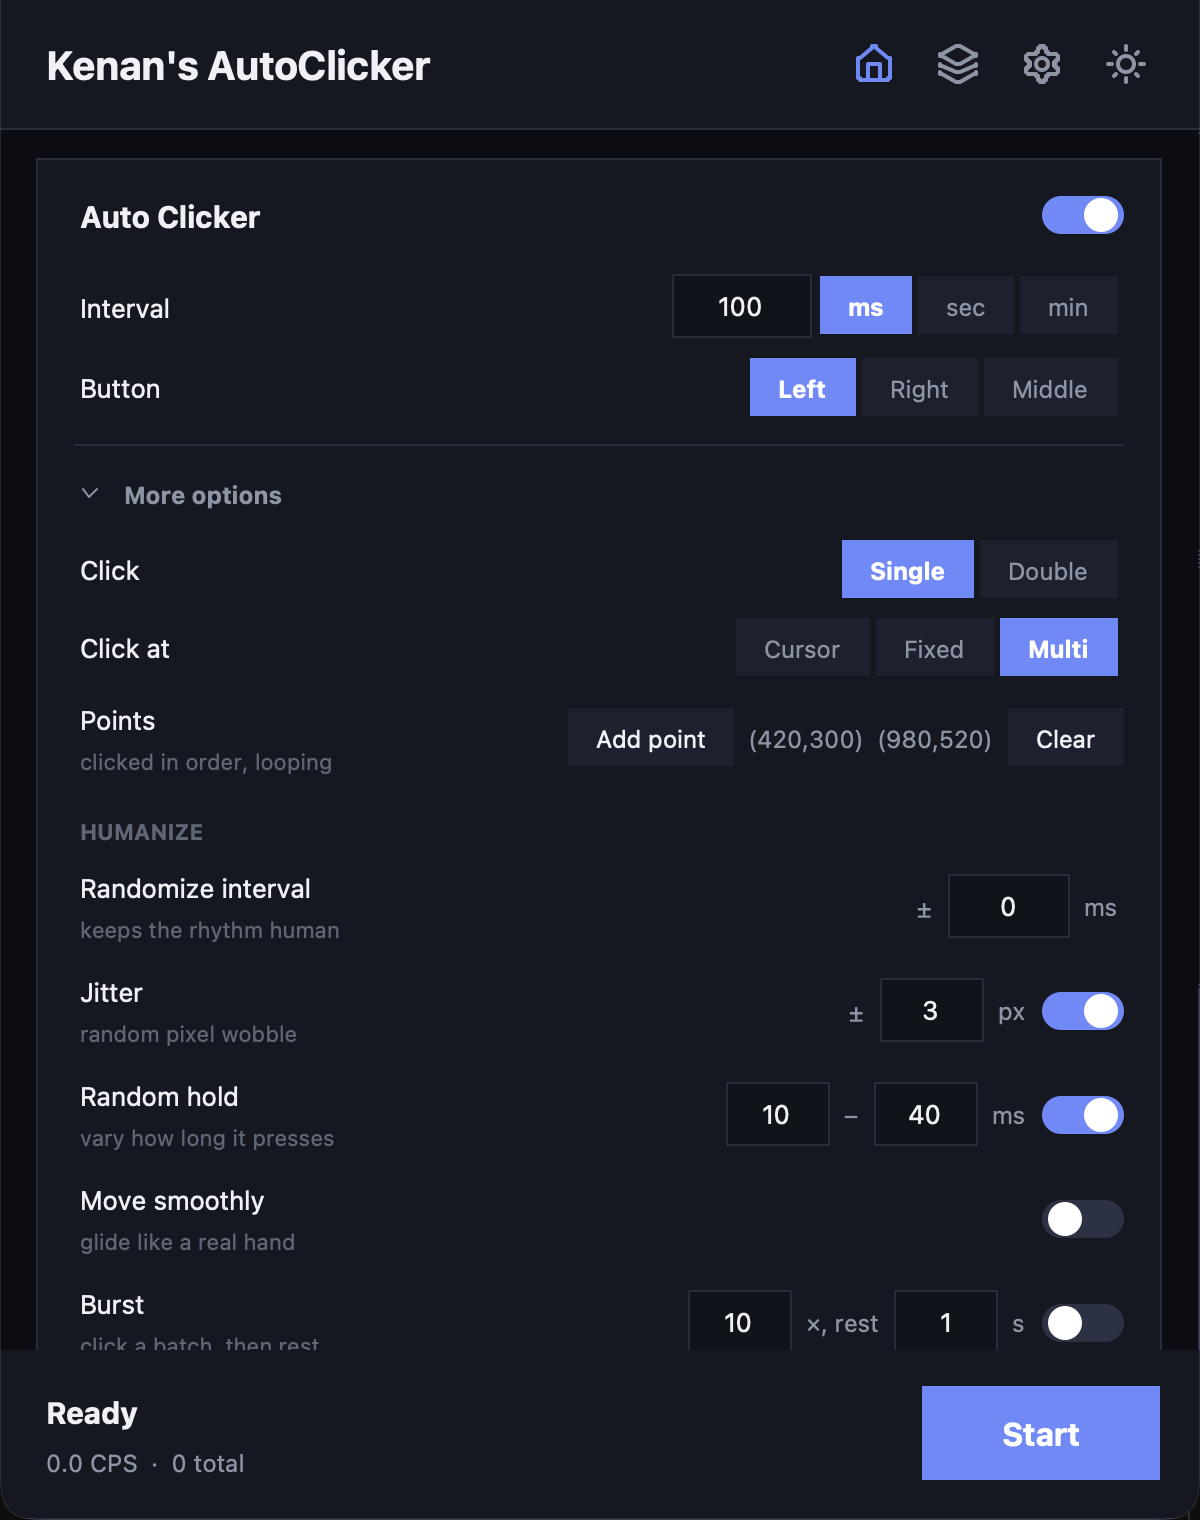
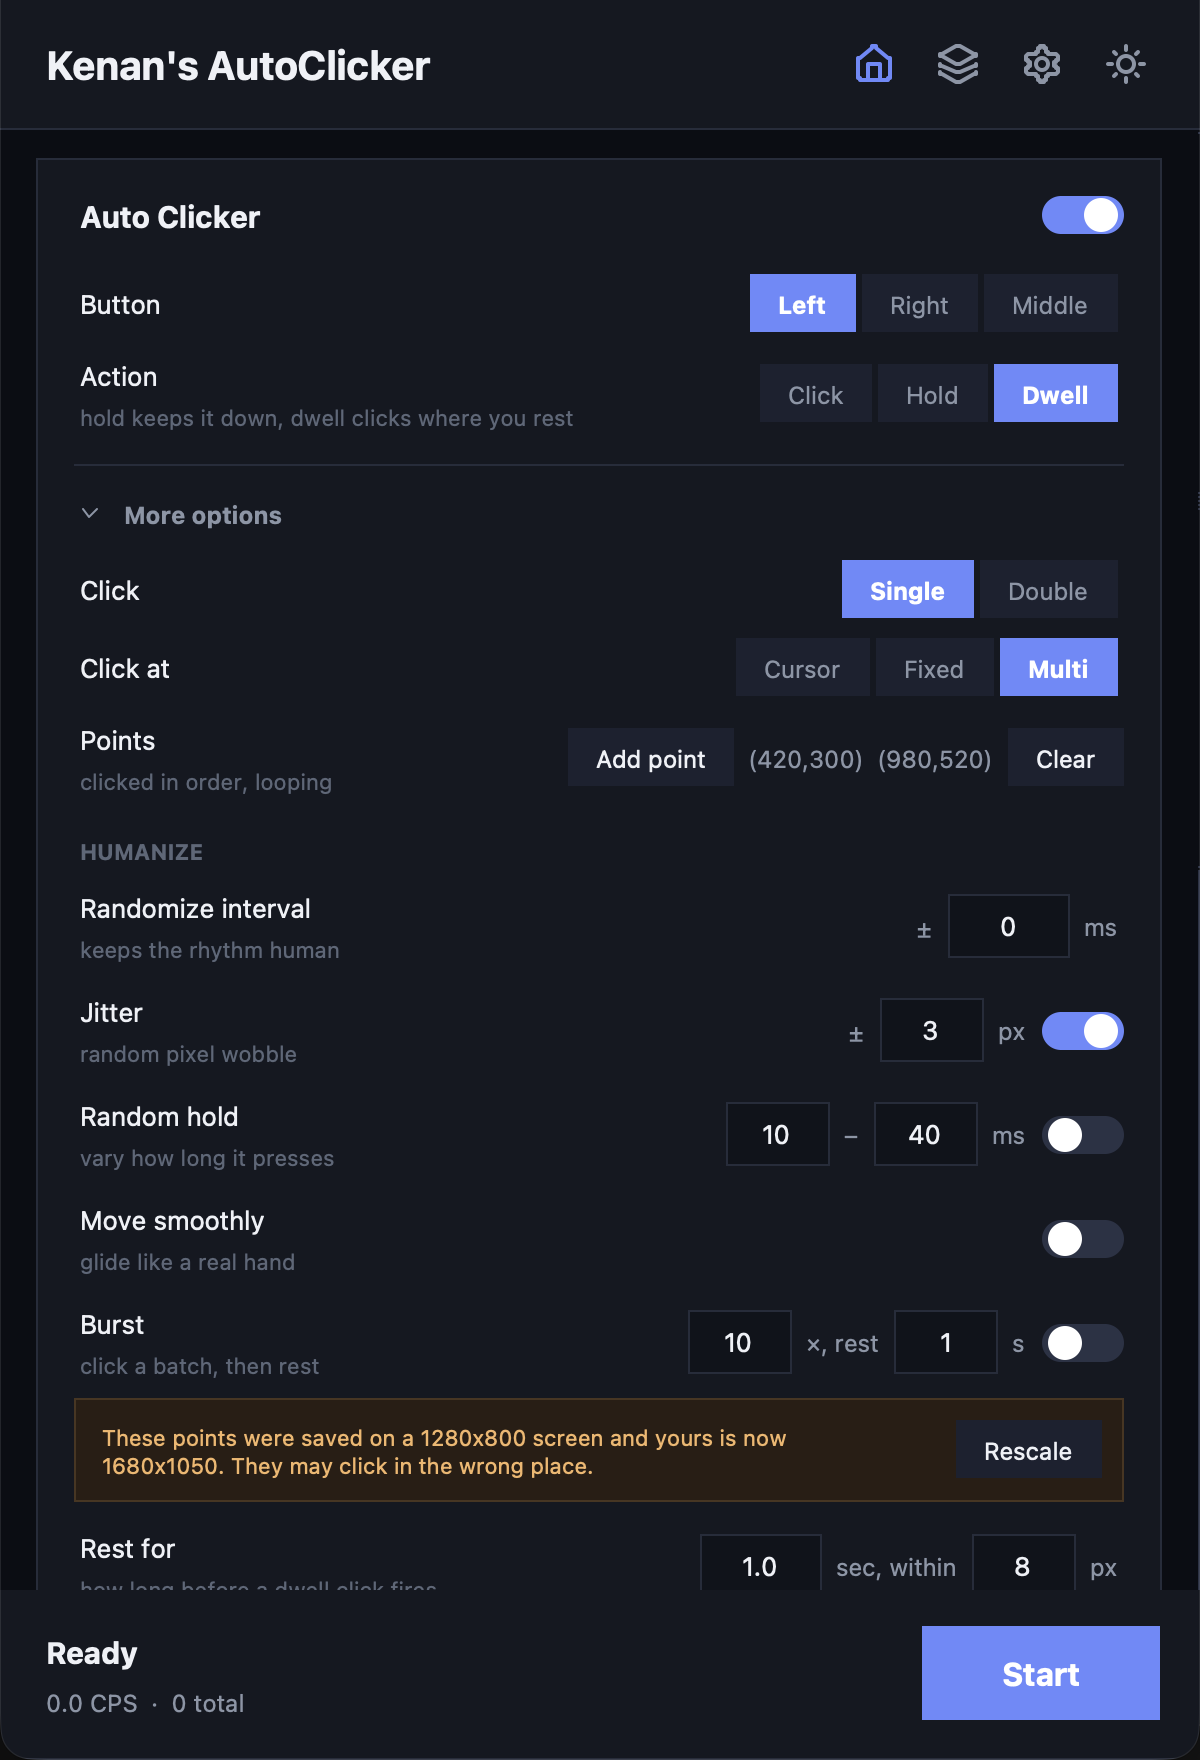
Refresh docs for v2.1, add issue templates, fix warning and dwell row placement

diff --git a/kenansautoclicker/ui_home.py b/kenansautoclicker/ui_home.py
@@ -36,6 +36,7 @@ class HomePage:
         self._seg(ctrl, self.vars["mouse_button"], ["Left", "Right", "Middle"]).pack(side="right")
 
         ctrl = self._row(c, "Action", "hold keeps it down, dwell clicks where you rest")
+        self.click_action_row = ctrl.row
         self._seg(ctrl, self.vars["click_action"], ["Click", "Hold", "Dwell"],
                   command=self._refresh_action_ui).pack(side="right")
 
@@ -197,9 +198,10 @@ class HomePage:
         self._right_stack(ctrl, [self.macro_lbl, self.macro_rec_btn])
 
         self.macro_hint = tk.Label(mc, font=(UI_FONT, 8), anchor="w", justify="left",
-                                   text="Recording starts after a countdown and stops "
-                                        "on the record hotkey, so the click that starts "
-                                        "it is not part of the macro.")
+                                   wraplength=520,
+                                   text="Recording starts after a countdown and stops on "
+                                        "the start/stop hotkey, so the click that begins "
+                                        "it never ends up inside the macro.")
         self.macro_hint.pack(anchor="w"); self._reg(self.macro_hint, "faint")
 
         ctrl = self._row(mc, "Repeat", "0 means until you stop it")
@@ -235,12 +237,17 @@ class HomePage:
         warning = self._point_warning()
         self.point_warn.pack_forget()
         self.point_fix_btn.pack_forget()
-        if warning and self.vars["target_mode"].get() in ("Fixed", "Multi"):
+        mode = self.vars["target_mode"].get()
+        if warning and mode in ("Fixed", "Multi"):
             message, can_rescale = warning
             self.point_warn_lbl.configure(text=message)
             if can_rescale:
                 self.point_fix_btn.pack(side="right", padx=(0, 10))
-            self.point_warn.pack(fill="x", pady=(2, 6))
+            anchor = self.pos_row if mode == "Fixed" else self.points_row
+            if anchor.winfo_manager():          # only anchor to a packed row
+                self.point_warn.pack(fill="x", pady=(2, 6), after=anchor)
+            else:
+                self.point_warn.pack(fill="x", pady=(2, 6))
 
     def _refresh_target_ui(self):
         """Show the position controls that match the chosen target, in place."""
@@ -265,7 +272,7 @@ class HomePage:
                                          before=self.click_button_row)
             self._refresh_speed_hint()
         elif action == "Dwell":
-            self.dwell_row.pack(fill="x", pady=5)
+            self.dwell_row.pack(fill="x", pady=5, after=self.click_action_row)
 
     def _refresh_speed_hint(self):
         """Warn when the interval is faster than most software will register.

diff --git a/tests/test_screens.py b/tests/test_screens.py
@@ -138,3 +138,36 @@ def test_matching_geometry_produces_no_warning(app):
     app.points = [(5, 5)]
     app.points_geometry = list(current_geometry(app.root))
     assert app._point_warning() is None
+
+
+def test_warning_sits_directly_under_the_points(app):
+    """It once rendered at the bottom of the whole section, far from the rows
+    it is talking about."""
+    app.root.deiconify(); app.root.geometry("600x880")
+    app.show_page("home")
+    app.vars["adv_click_open"].set(True)
+    app.vars["target_mode"].set("Multi"); app._refresh_target_ui()
+    app.points = [(10, 10)]
+    app.points_geometry = [123, 456]           # force the warning
+    app._refresh_points()
+    app.root.update_idletasks(); app.root.update()
+
+    assert app.point_warn.winfo_ismapped(), "warning not shown for a stale screen"
+    gap = app.point_warn.winfo_rooty() - app.points_row.winfo_rooty()
+    assert 0 < gap < 90, f"warning sits {gap}px from the points row"
+
+    app.points = []; app.points_geometry = None
+    app.vars["adv_click_open"].set(False)
+    app.vars["target_mode"].set("Cursor"); app._refresh_target_ui()
+    app.root.withdraw()
+
+
+def test_dwell_settings_sit_under_the_action_row(app):
+    app.root.deiconify(); app.root.geometry("600x880")
+    app.show_page("home")
+    app.vars["click_action"].set("Dwell"); app._refresh_action_ui()
+    app.root.update_idletasks(); app.root.update()
+    gap = app.dwell_row.winfo_rooty() - app.click_action_row.winfo_rooty()
+    assert 0 < gap < 90, f"dwell settings sit {gap}px from Action"
+    app.vars["click_action"].set("Click"); app._refresh_action_ui()
+    app.root.withdraw()

diff --git a/kenansautoclicker/__init__.py b/kenansautoclicker/__init__.py
@@ -7,7 +7,7 @@ Copyright (c) 2026 Kenan. MIT Licensed.
 https://github.com/KenanSab/KenansAutoClicker
 """
 
-__version__ = "2.0.0"
+__version__ = "2.1.0"
 __author__ = "Kenan"
 __license__ = "MIT"
 __url__ = "https://github.com/KenanSab/KenansAutoClicker"

diff --git a/README.md b/README.md
@@ -8,7 +8,7 @@ work, and software testing.
 Set it up once. Save it as a preset. Share it with everyone else.
 
 [![Build](https://github.com/KenanSab/KenansAutoClicker/actions/workflows/build.yml/badge.svg)](https://github.com/KenanSab/KenansAutoClicker/actions)
-[![Tests](https://img.shields.io/badge/tests-143%20passing-brightgreen)](tests/)
+[![Tests](https://img.shields.io/badge/tests-145%20passing-brightgreen)](tests/)
 [![License: MIT](https://img.shields.io/badge/license-MIT-blue.svg)](LICENSE)
 [![Python](https://img.shields.io/badge/python-3.9%2B-blue)](https://python.org)
 [![Platforms](https://img.shields.io/badge/platform-Windows%20%7C%20macOS%20%7C%20Linux-lightgray)](#download)
@@ -52,11 +52,11 @@ else lives behind **More options** until you ask for it.
 <table>
 <tr>
 <td width="50%"><img src="docs/advanced.png" alt="Advanced options expanded"></td>
-<td width="50%"><img src="docs/settings.png" alt="Settings"></td>
+<td width="50%"><img src="docs/macro.png" alt="Macro recorder"></td>
 </tr>
 <tr>
-<td align="center"><em>Targeting and humanization, on demand.</em></td>
-<td align="center"><em>Settings follow the same rule.</em></td>
+<td align="center"><em>Targeting, humanization and a warning when saved points no longer match your screen.</em></td>
+<td align="center"><em>Record what you do, then replay it.</em></td>
 </tr>
 </table>
 
@@ -213,7 +213,7 @@ pip install pytest
 python -m pytest tests/ -q
 ```
 
-**143 tests** covering preset validation and hostile input, the input engine, key
+**145 tests** covering preset validation and hostile input, the input engine, key
 parsing, persistence, and interface behavior. CI runs them on every push, and
 nothing is built unless they pass.
 

diff --git a/.github/ISSUE_TEMPLATE/bug_report.md b/.github/ISSUE_TEMPLATE/bug_report.md
@@ -1,0 +1,24 @@
+---
+name: Bug report
+about: Something doesn't work
+labels: bug
+---
+
+**What happened**
+
+
+**What you expected instead**
+
+
+**Steps to reproduce**
+1.
+2.
+
+**Your setup**
+- Operating system and version:
+- How you got the app: (release download / built from source)
+- App version: (Settings has it, or the release you downloaded)
+
+**Anything else**
+Screenshots help a lot. If clicks land in the wrong place, mention whether you
+use more than one monitor and whether the resolution changed recently.

diff --git a/.github/ISSUE_TEMPLATE/feature_request.md b/.github/ISSUE_TEMPLATE/feature_request.md
@@ -1,0 +1,16 @@
+---
+name: Feature request
+about: Suggest something the app should do
+labels: enhancement
+---
+
+**What are you trying to do?**
+Describe the task, not just the feature. Knowing the goal often leads to a
+better solution than the one first imagined.
+
+**How do you do it today?**
+
+
+**Would a preset solve it?**
+Many workflows are just a saved setup. If so, consider contributing one instead
+(see CONTRIBUTING.md) as it lands immediately rather than waiting on a release.

diff --git a/.github/ISSUE_TEMPLATE/preset_submission.md b/.github/ISSUE_TEMPLATE/preset_submission.md
@@ -1,0 +1,22 @@
+---
+name: Preset submission
+about: Share a setup without using a pull request
+labels: preset
+---
+
+**Preset name**
+
+
+**What it does and who it's for**
+
+
+**Paste the exported JSON**
+Use *Presets → Save current as preset* in the app, then paste the file here.
+
+```json
+
+```
+
+**Is it for a competitive online game?**
+If so please say. Those presets get a visible warning, because input automation
+can get accounts permanently banned.
